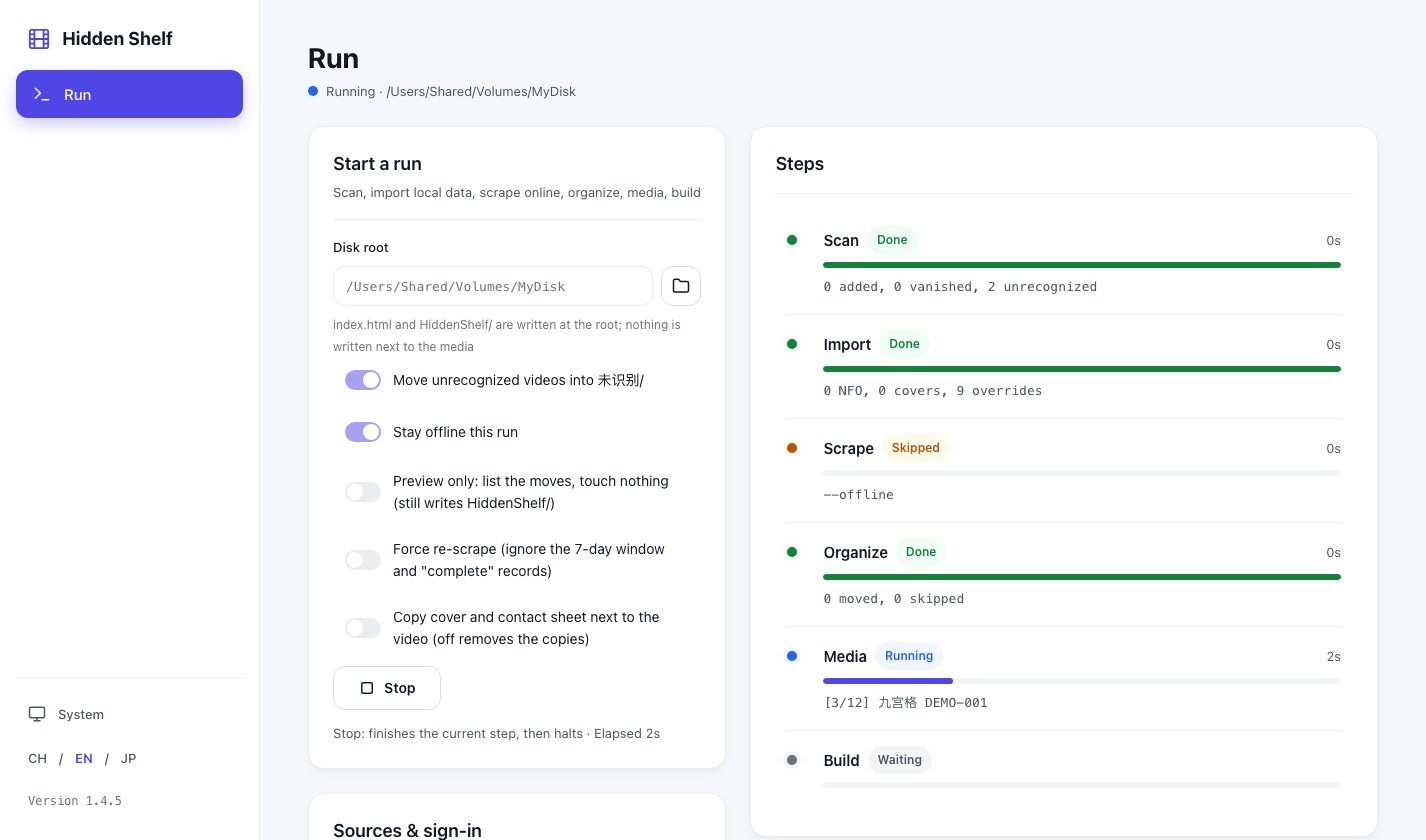
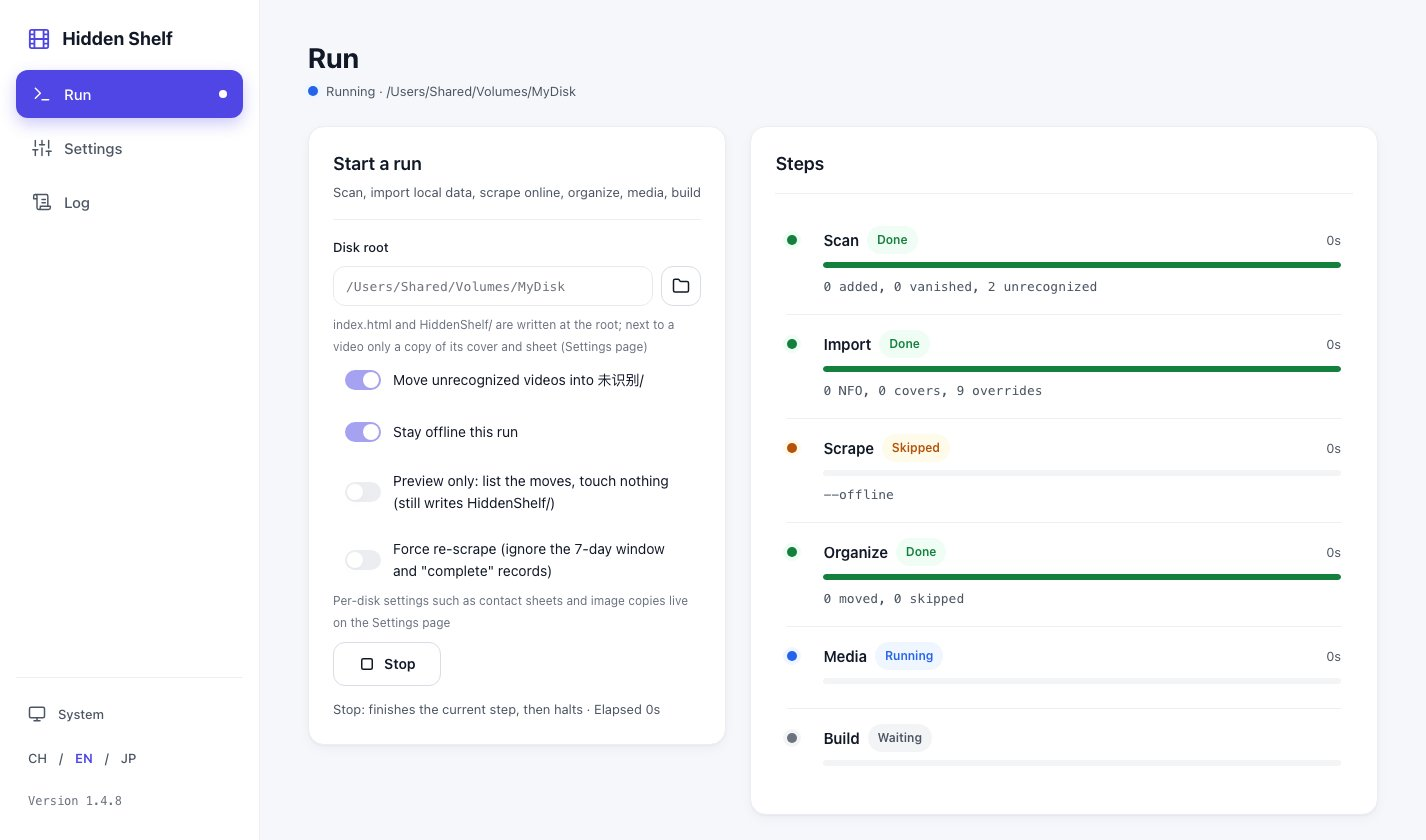
docs: README 截图换成 v1.4.8 三页版进度网页，新增设置页截图
Claude-Session: https://claude.ai/code/session_017fp2z5LNpUWMAAuW55JD34

diff --git a/README.zh.md b/README.zh.md
@@ -8,9 +8,9 @@
 |---|---|
 | ![海报墙](docs/images/wall.jpg) | ![作品页](docs/images/detail.jpg) |
 
-| 进度网页 | 目录选择器 |
-|---|---|
-| ![进度网页](docs/images/progress.jpg) | ![目录选择器](docs/images/picker.jpg) |
+| 进度网页 | 设置页 | 目录选择器 |
+|---|---|---|
+| ![进度网页](docs/images/progress.jpg) | ![设置页](docs/images/settings.jpg) | ![目录选择器](docs/images/picker.jpg) |
 
 截图里都是演示数据，前两张就是[在线预览](https://wanghero.github.io/Hidden-Shelf/)。
 

diff --git a/README.md b/README.md
@@ -8,9 +8,9 @@
 |---|---|
 | ![Poster wall](docs/images/wall.jpg) | ![Work page](docs/images/detail.jpg) |
 
-| Progress page | Folder picker |
-|---|---|
-| ![Progress page](docs/images/progress.jpg) | ![Folder picker](docs/images/picker.jpg) |
+| Progress page | Settings | Folder picker |
+|---|---|---|
+| ![Progress page](docs/images/progress.jpg) | ![Settings](docs/images/settings.jpg) | ![Folder picker](docs/images/picker.jpg) |
 
 All screenshots use demo data; the first two are the [live demo](https://wanghero.github.io/Hidden-Shelf/).
 
